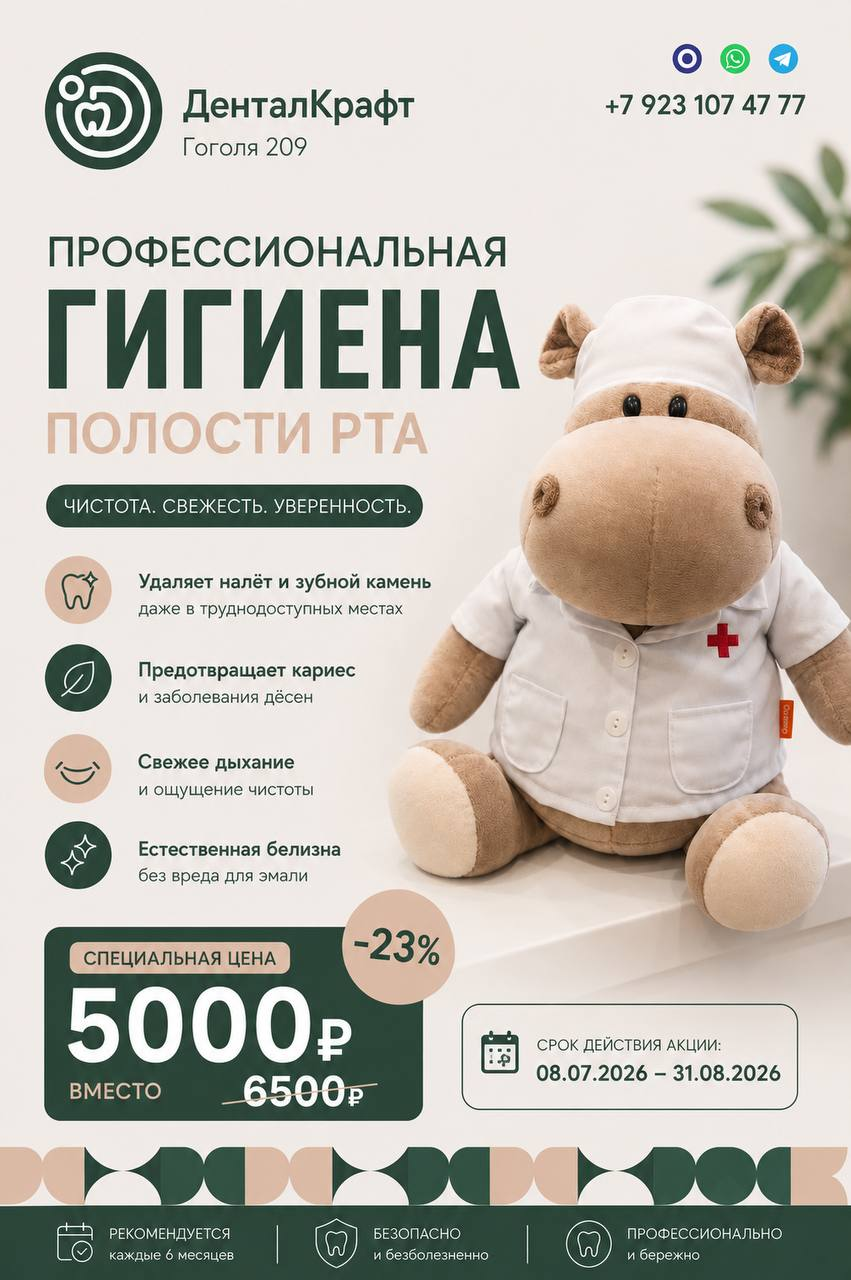
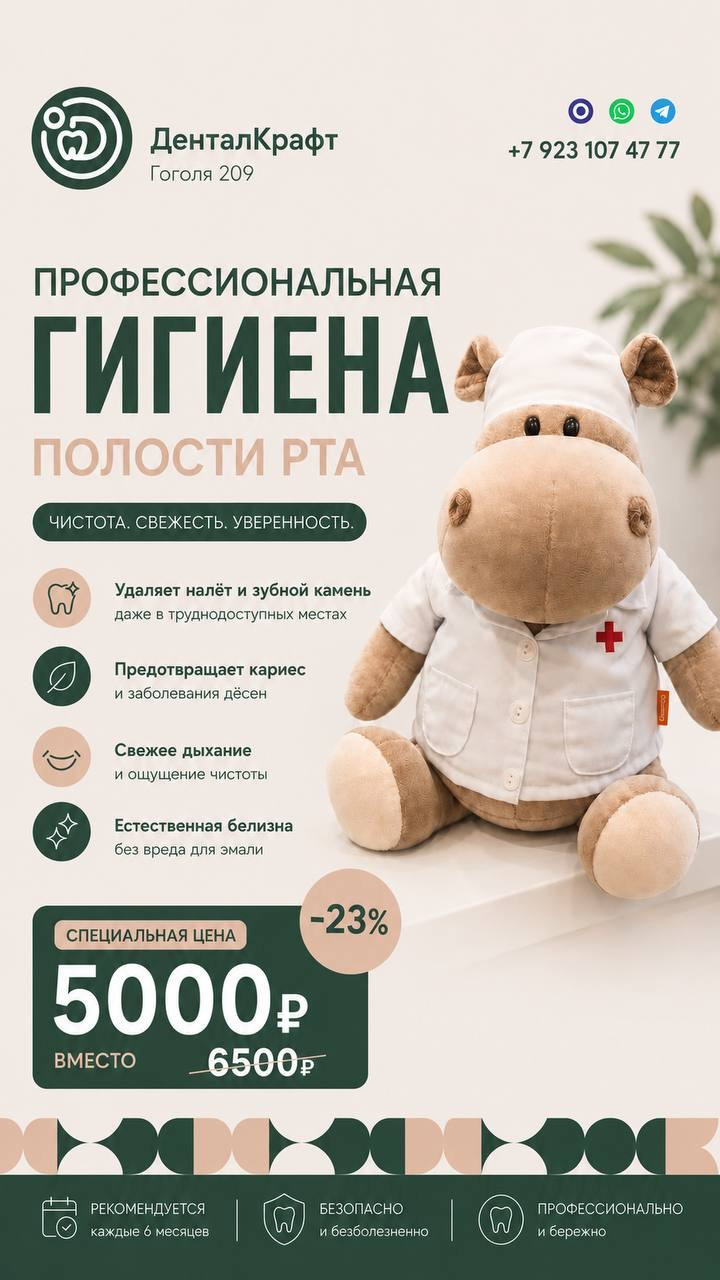
promo img change

diff --git a/index.html b/index.html
@@ -104,7 +104,7 @@
     </section>
     <div class="sale">
       <img src="./src/assets/images/sale.jpeg" alt="sale_image">
-      <img src="./src/assets/images/check_up.jpg" alt="check_up_image">
+      <img src="./src/assets/images/check_up.jpeg" alt="check_up_image">
     </div>
     <section class="our_services">
       <div class="line">
